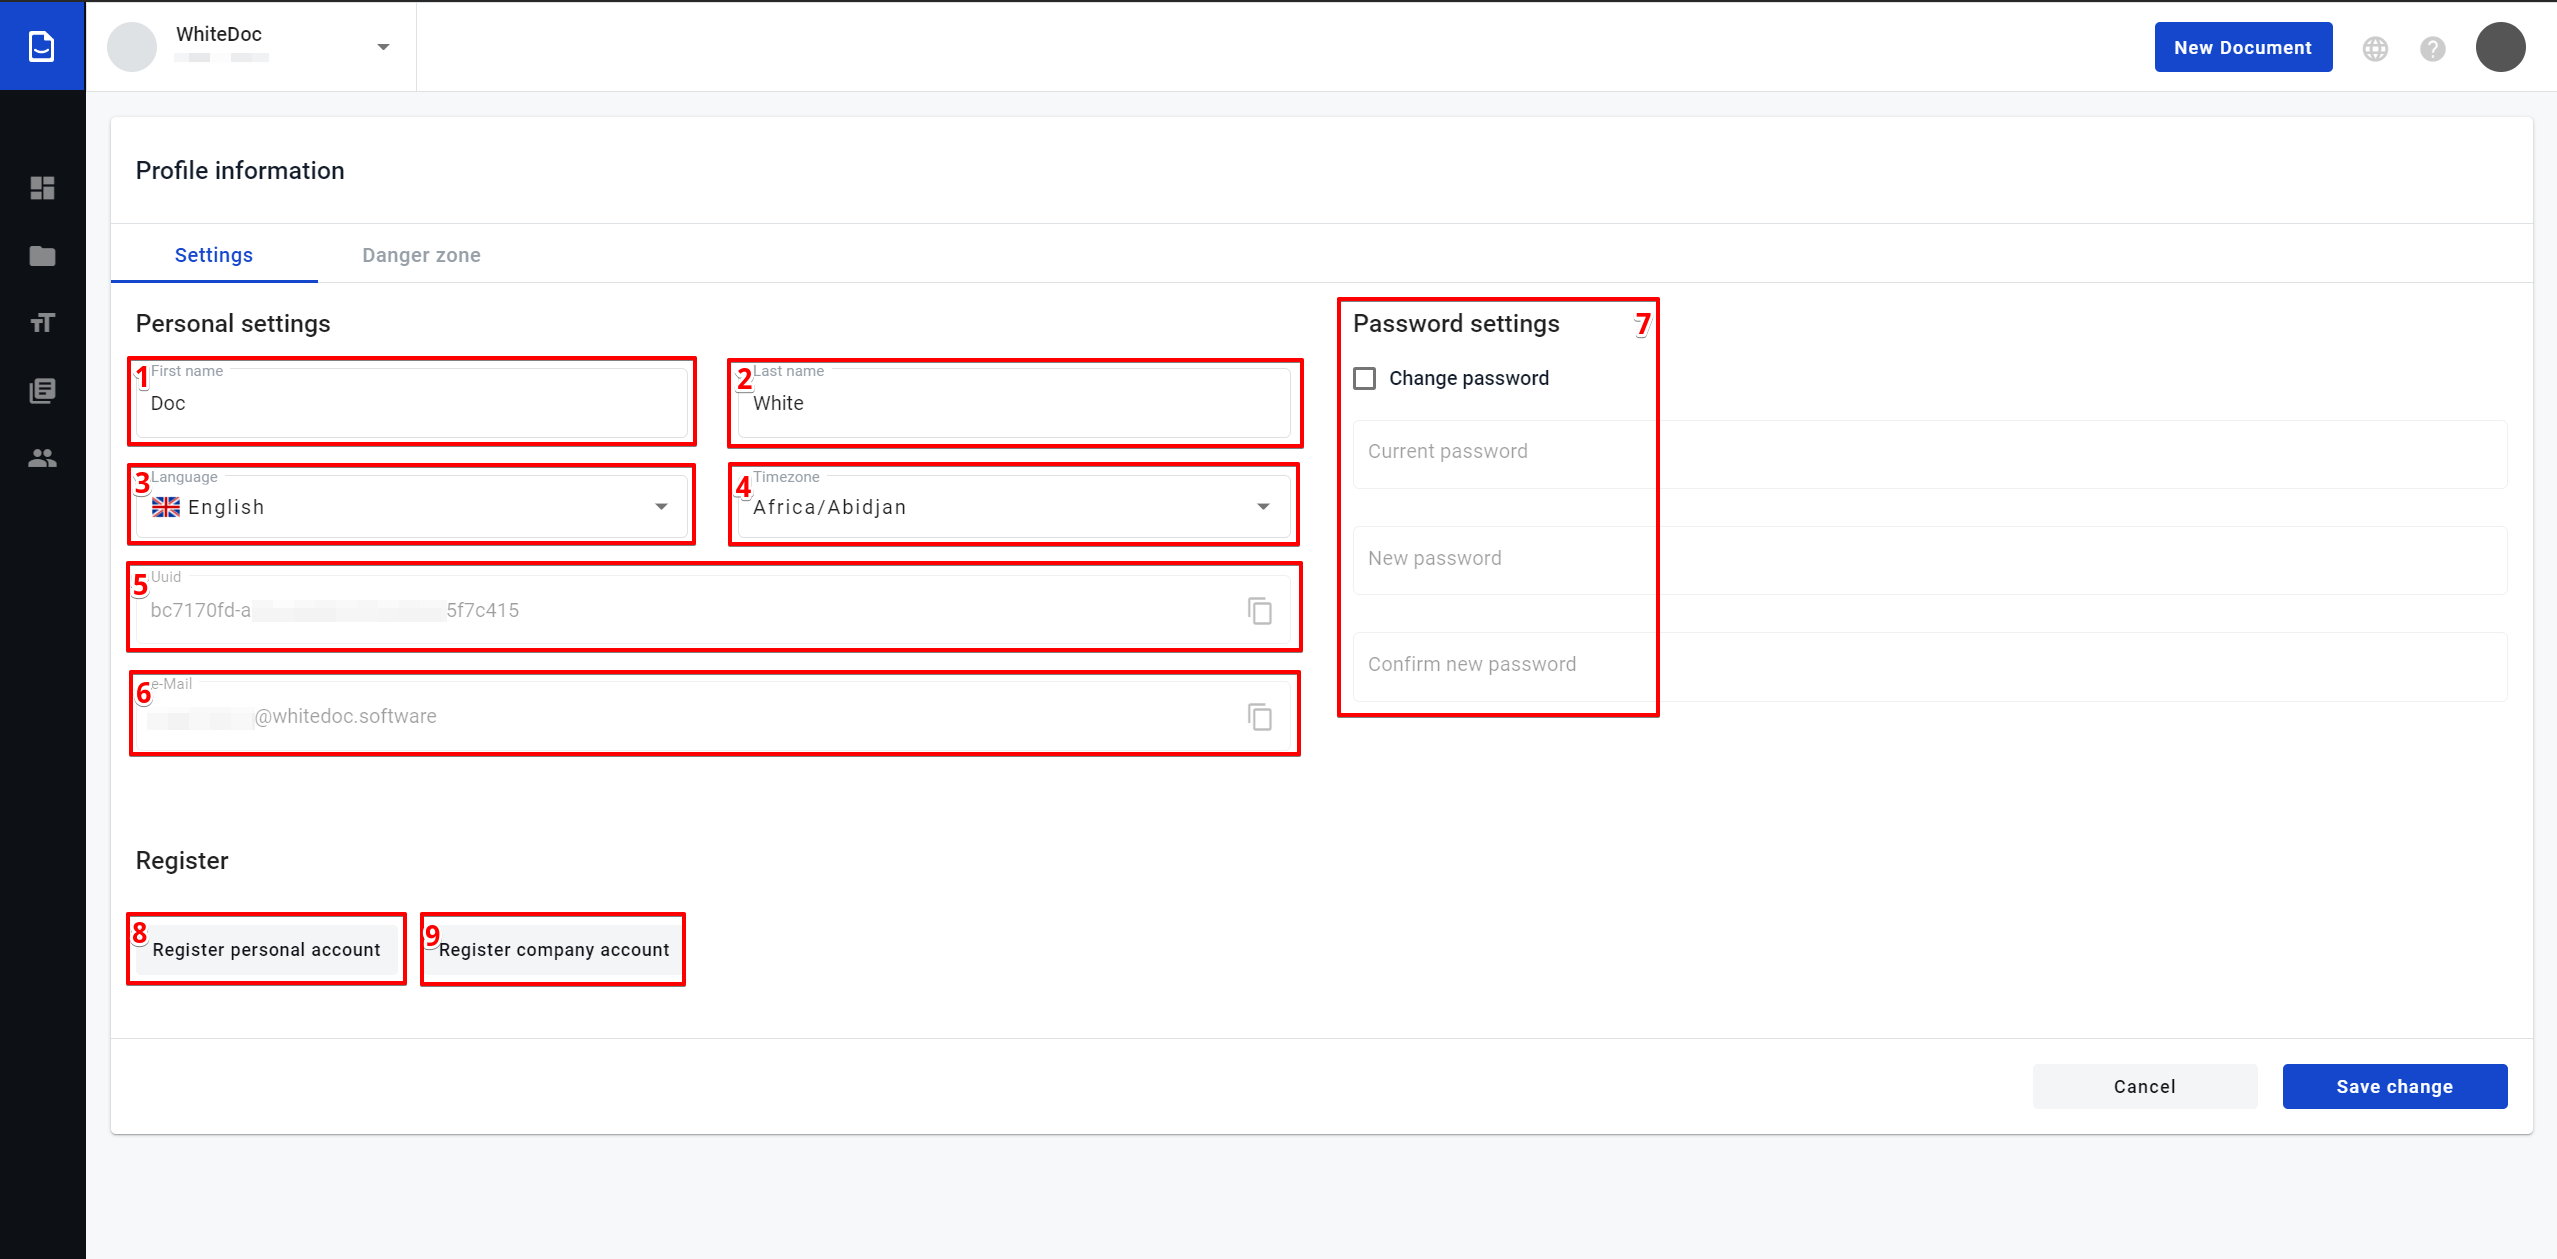
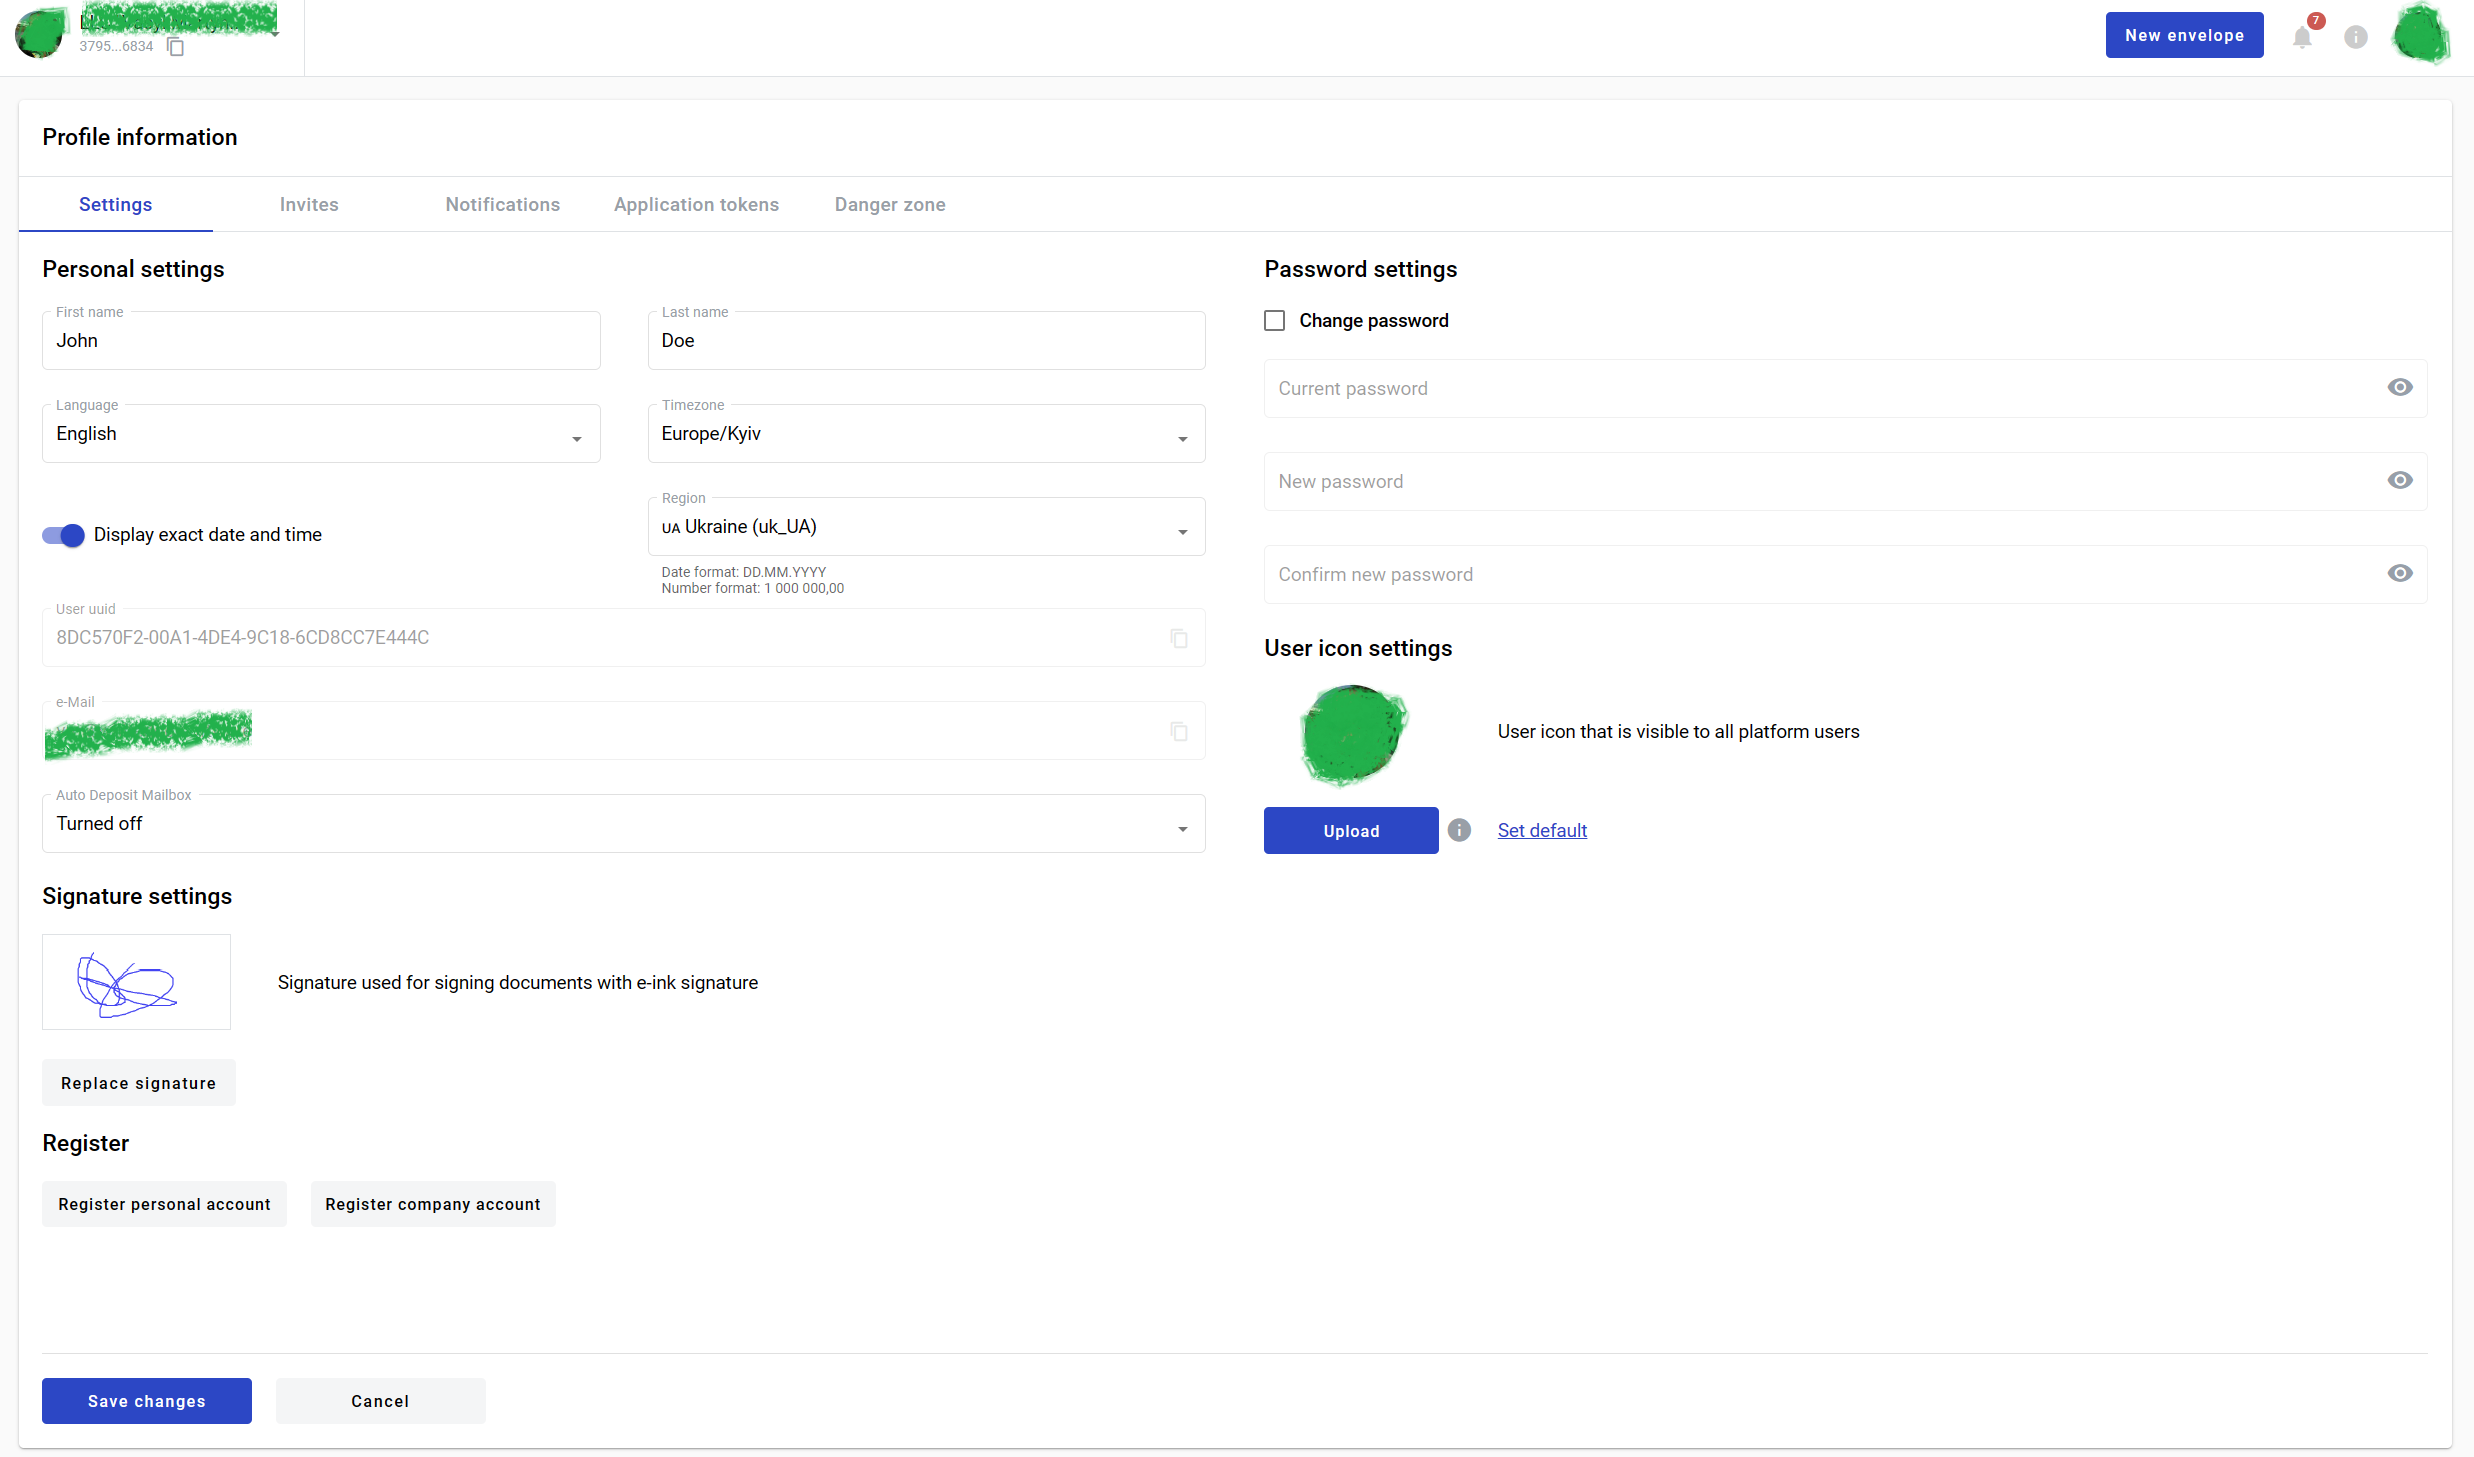
User profile page update + info on user self delet

diff --git a/docs/source/pages/howToWorkWithPlatform/mainApplication/userProfile/userProfile.rst b/docs/source/pages/howToWorkWithPlatform/mainApplication/userProfile/userProfile.rst
@@ -2,141 +2,107 @@
 User profile
 ============
 
-**User profile** page allows:
+This page allows you to edit various settings of your user profile. To open user profile page navigate to https://platform_address/profile
 
-
-1. Update profile settings
-2. Register personal accounts
-3. Register company accounts
-4. Add logo for user profile
-5. Delete profile
-6. Creating and applying an electronic ink signature
-
-
-To open user profile page navigate to https://staging.whitedoc.space/profile .
-
-On **Settings** tab you can edit (1) First name (2) Last name, (3) change language, (4) change timezone, (7) change password, start process for (8) register personal account, start process for (9) register company account. Fields (5) Profile UUID, (6) e-Mail not editable.
+============
+Settings tab
+============
 
 .. image:: pic_userprofile/tabSettings.png
    :width: 600
    :align: center
 
-On **Danger zone** tab you can start process for (1) delete user profile.
+1. First name
+2. Last name
+3. Language - this is language which will be used in user interface
+4. Timezone - choose your time zone
+5. Display exact date - specifies if absolute (01.01.2023 12:12) or relative (fiwe minutes ago) time is used
+6. Region - specifies regional formats for dates and number, example is shown below the menu
+7. User UUID (can not be changed, only copied)
+8. Email (can not be changed, only copied)
+9. Auto deposit mailbox - specifies which mailbox will be used for incoming envelopes. If disabled - you will have to manually specify mailbox for each incoming envelope.
+10. Signature settings - here you can create or update tour e-ink signature
+11. Register personal account
+12. Register company account
 
-.. image:: pic_userprofile/tabDangerZone.png
-   :width: 600
-   :align: center
+Do not forget to click on Save changes button after editing anything on this page
 
-Edit profile settings
-=======================
+Personal account registration
+=============================
 
-1. To start edit (1) First name (2) Last name, just focus on necessary field which you want to edit, make changes in this field and click on "Save change" button
-
-.. image:: pic_userprofile/editName.png
-   :width: 600
-   :align: center
-
-2. To change password need select checkbox (1) otherwise fields (2), (3), (4) will be unavailable. After checkbox (1) selected input current password in field (2), new password input in field (3) for confirm new password repeat input new password in field (3). If all input data correct button (5) Save change will be available and you can confirm change password to click on this button
-
-.. image:: pic_userprofile/changePassword.png
-   :width: 600
-   :align: center
-
-3. If password successfully changed the notification message will show at the right corner of the page
-
-.. image:: pic_userprofile/changePasswordSuccess.png
-   :width: 600
-   :align: center
-
-4. To change language click on field (1) Language, after that will be open drop down menu where you can select language which supported our system. For confirm this changes click on (2) Save change button
-
-.. image:: pic_userprofile/changeLanguage.png
-   :width: 600
-   :align: center
-
-5. To change timezone click on field (1) Timezone, after that will be open drop down menu where you can select interested you timezone. For confirm this changes click on (2) Save change button
-
-.. image:: pic_userprofile/changeTimezone.png
-   :width: 600
-   :align: center
-
-6. To copy the (1) Profile UUID or (2) e-Mail click on button (3) Copy
-
-.. image:: pic_userprofile/copyData.png
-   :width: 600
-   :align: center
-
-
-7. If profile successfully edited the notification message will show at the right corner of the page
-
-.. image:: pic_userprofile/editNameSuccess.png
-   :width: 600
-   :align: center
-
-Register personal account
-=========================
-1. To register new personal account click on (1) Register personal account button
-2. Modal window of the personal account creation opens. Enter a name of the Account in field (2)
-3. Select checkbox (3) "I agree with Terms and conditions and Privacy policy"
-4. Click on the button (4) “Create” (the state of the “Create” button will change after name enters and selected checkbox)
+1. To register new personal account click on Register personal account button
+2. In opened window enter a name for the account
+3. Select checkbox "I agree with Terms and conditions and Privacy policy"
+4. Click on Create button (button will be enable when previous steps are done)
 
 .. image:: pic_userprofile/createPersonalAccount.png
    :width: 600
    :align: center
 
-5. After successful account creation, also created mailbox for this account with same name and in the right corner of the page will show message
+Company account registration
+============================
 
-.. image:: pic_userprofile/createPersonalAccountSuccess.png
-   :width: 600
-   :align: center
-
-Register company account
-========================
-
-1. To register new company account click on (1)Register company account button
-2. Modal window of the personal account creation opens. Enter a name of the Account in field(2)
-3. Enter Individual taxpayer number in field (3)
-4. Enter a name of the mailbox in field (4)
-5. Select checkbox (5)"I agree with Terms and conditions and Privacy policy"
-6. Click on the button (6)“Create” (the state of the “Create” button will change after name enters and selected checkbox)
+1. To register new personal account click on Register company account button
+2. In opened window enter a name, ITN and mailbox name for the account
+3. Select checkbox "I agree with Terms and conditions and Privacy policy"
+4. Click on Create button (button will be enable when previous steps are done)
 
 .. image:: pic_userprofile/createCompanyAccount.png
    :width: 600
    :align: center
 
-7. After successful account creation, also created mailbox for this account with same name and in the right corner of the page will show message
+Creating and applying an electronic ink signature
+=================================================
 
-.. image:: pic_userprofile/createPersonalAccountSuccess.png
+1. Go to user profile page
+2. Click on Replace signature button
+3. Draw your signature
+4. Alternatively, text can be used as signature
+5. Click on Save changes button on the account setting page
+
+Password updating
+=================
+
+.. image:: pic_userprofile/passwordSettings.png
    :width: 600
    :align: center
 
-Ability for users upload logos/photos
-=====================================
+1. Check Change password checkbox
+2. Enter current password
+3. Enter new password
+4. Confirm new password in second field
+5. Click on Save changes button
 
-User can add logo for their profile
+User icon upload
+================
 
-1. Go to user profile
-2. User  view " User icon settings"
-
-.. image:: pic_userprofile/Screenshot_12.png
+.. image:: pic_userprofile/userIconSettings.png
    :width: 600
    :align: center
 
-3. Click "Upload" button, user can choose any images. User can click the info icon and view params for images
+1. Click Upload button and select an image
+2. To see allowe image formats and size hover over info icon
 
-.. image:: pic_userprofile/Screenshot_1.png
+.. image:: pic_userprofile/userIconValidation.png
    :width: 600
    :align: center
 
-4. User can save image, if click "Save" button
-5. You can return default profile logo, when user click "Set default" button. In this case profile logo will consist on first letters of first and last name
+3. Click Save changes button to apply new icon
+4. You can return default profile logo with Set default link
 
-Delete user profile
-===================
+===============
+Danger zone tab
+===============
 
-To delete user profile go to Danger zone tab. User deletion profile process has steps:
+This page allows you to delete your user account. To open user profile page navigate to https://platform_address/profile?activeTab=dangerzone
 
-1. After User profile deletion will be deleted all Accounts where user has role "Account owner" and all data which related to these accounts.
+.. image:: pic_userprofile/tabDangerZone.png
+   :width: 600
+   :align: center
+	
+.. note:: Ability to remove own user profile can be restricted in instance settings. In such case there will be no Danger zone tab on Profile information page.
+
+1. After User profile deletion all Accounts with role "Account owner" will be deleted with all related data.
 2. User can keep all Accounts and all data which related to these accounts after User profile deletion.
 
 .. image:: pic_userprofile/deleteUserProfile.png
@@ -163,22 +129,7 @@ To delete user profile go to Danger zone tab. User deletion profile process has 
    :width: 600
    :align: center
 
-7. After successful user profile deletion in the right corner of the page will show message. For repair access to our application you should register new user
-
-.. image:: pic_userprofile/deleteUserProfileSuccess.png
-   :width: 600
-   :align: center
-
 .. note:: `Behaviour of data after deleting a user profile <delete_userProfile_behaviour.html>`_
-
-Creating and applying an electronic ink signature
-=================================================
-
-1. Go to user profile page
-2. You can view "Signature settings"
-3. Click "Replace signature" and you have opportunity handwritten signature or input text
-4. User can chose font and color for signature
-5. After creating signature user must click "Save change" on the account setting page
 
 ---------------------------------
 
